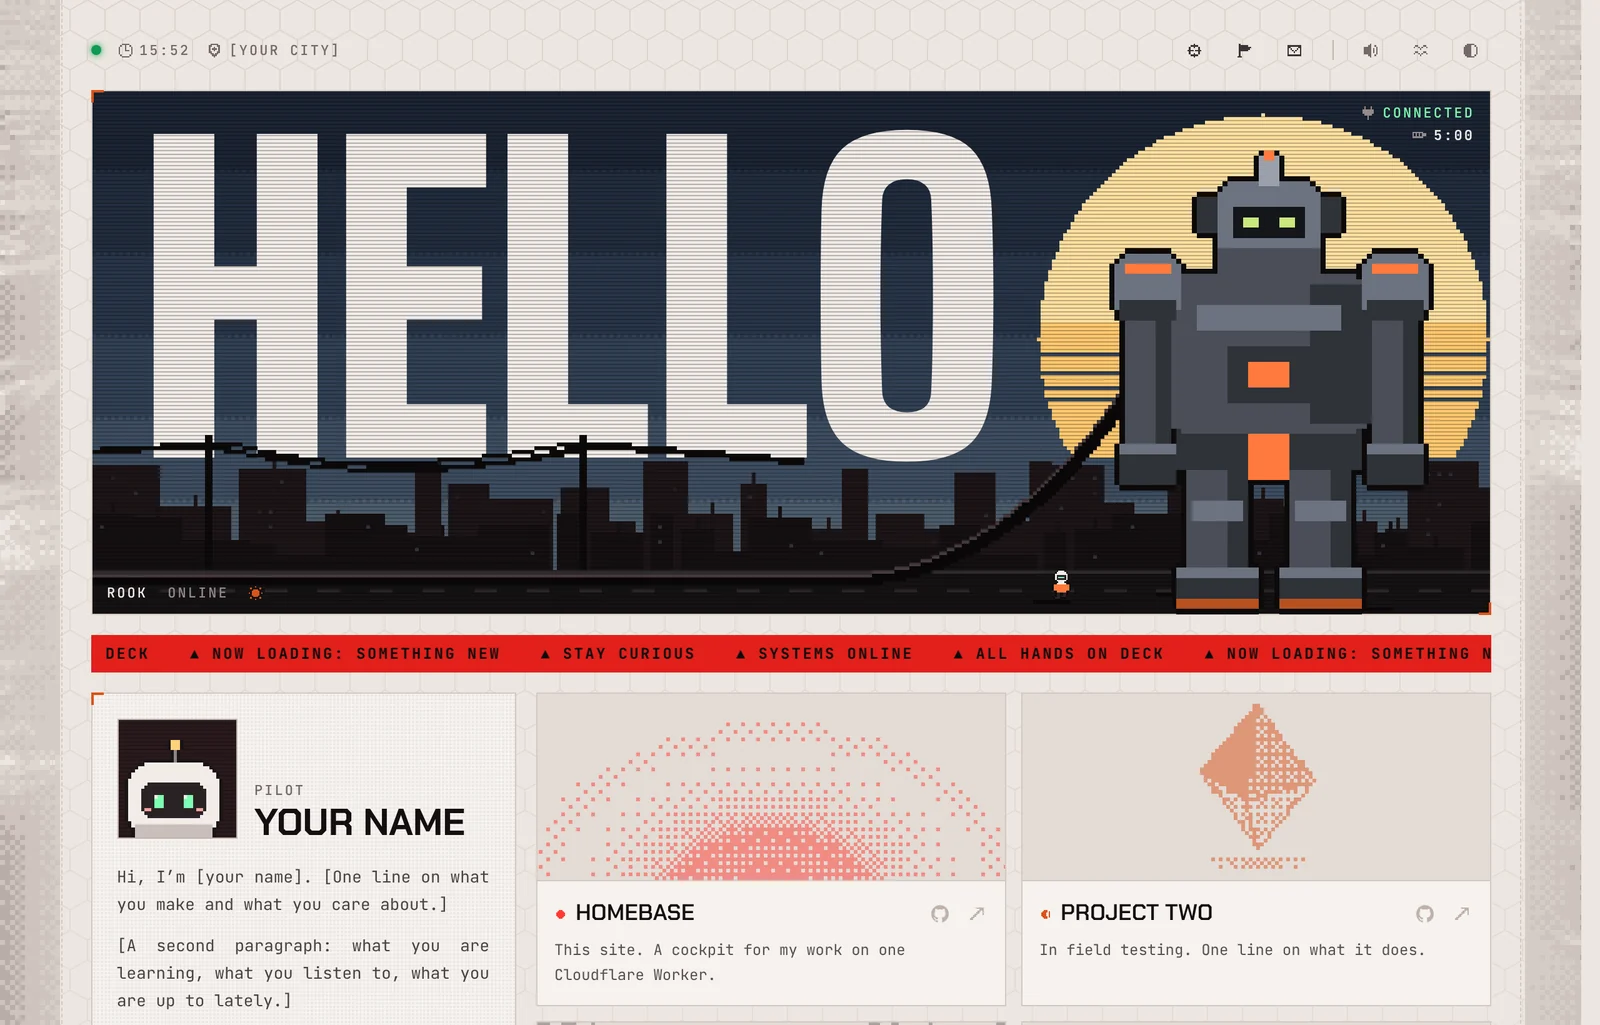
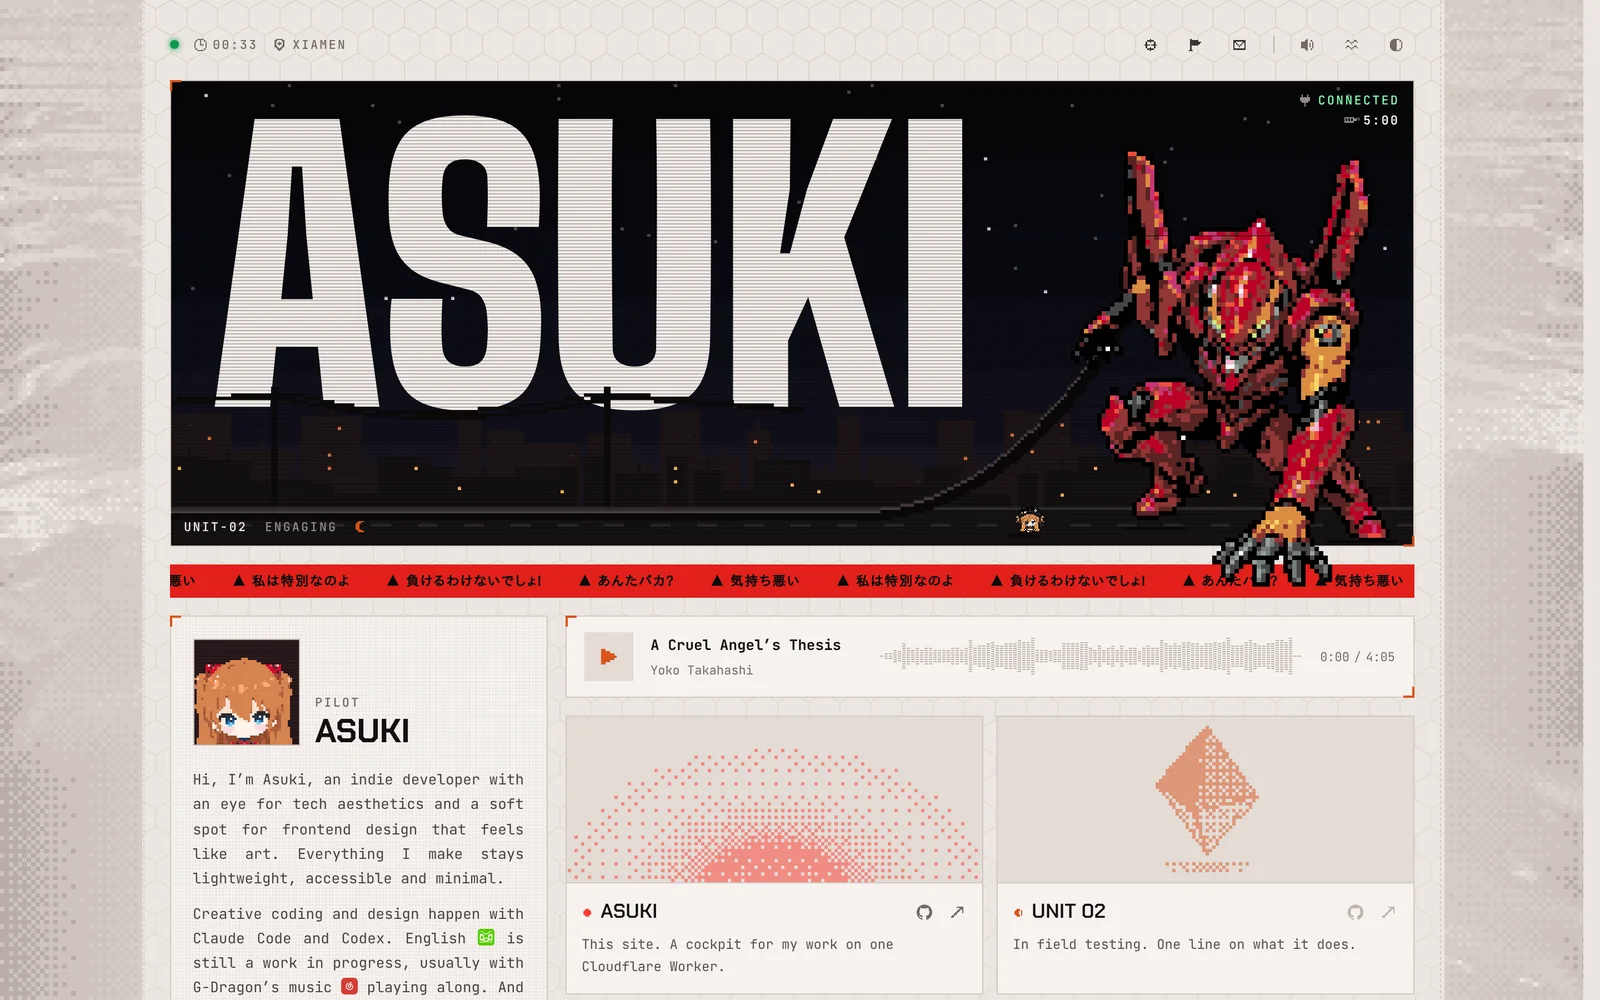
README: GIFs of every interaction, recorded on asuki.cc
Claude-Session: https://claude.ai/code/session_01XYmswk4ZmpHXxqo8sEZMZo

diff --git a/README.md b/README.md
@@ -18,14 +18,14 @@ English · [简体中文](README.zh-CN.md)
 
 <picture>
   <source media="(prefers-color-scheme: light)" srcset="docs/hero-light.webp">
-  <img src="docs/hero-dark.webp" alt="The template's homepage: a giant pixel mech in a city at night under the word HELLO, a red ticker, a profile panel and project cards" width="100%">
+  <img src="docs/hero-dark.webp" alt="asuki.cc: a giant red pixel mech crouching in a city at night under the word ASUKI, a red ticker, a profile panel, a music player and project cards" width="100%">
 </picture>
 
 </div>
 
 This is the framework behind [asuki.cc](https://asuki.cc), with every personal asset taken out. Everything that makes the site someone's lives in one folder, `persona/`. Swap that folder and the site becomes yours: your mech in the banner, your pet on the caution tape, your music and your words. The code stays the same.
 
-It ships with an original example persona: **Rook** the mech, **Bit** the pet, a tiny pilot and a harpoon. They are MIT-licensed, so you can keep them, remix them or replace them.
+The pictures and GIFs in this README are recorded on [asuki.cc](https://asuki.cc), the site this framework was built for: Unit-02 in the banner, a pixel Asuka on the caution tape and the Spear of Cassius. **Those characters are not part of the template.** The template ships with its own original example persona, **Rook** the mech, **Bit** the pet, a tiny pilot and a harpoon, which are MIT-licensed so you can keep, remix or replace them. Everything shown here works the same with any persona.
 
 ## Contents
 
@@ -66,6 +66,8 @@ It ships with an original example persona: **Rook** the mech, **Bit** the pet, a
 
 ## A tour
 
+Every GIF below is a real recording of the site. Nothing is staged or sped up.
+
 ### The sky follows yours
 
 Set your latitude and longitude, and the banner shows your real sky: the sun's height, the time of day and the current weather, from [Open-Meteo](https://open-meteo.com) (free, no key). Clouds, rain, snow, fog and lightning are drawn in the same pixel grid as the art.
@@ -78,33 +80,89 @@ You can preview any weather with `?weather=rain` (or `clear`, `partly`, `overcas
 
 ### Pull the plug
 
-The power cable is a simulated rope. Pull it and the mech switches to a five-minute battery while the pilot runs over and plugs it back in. Pull it three times in a row and the pilot sulks, and the battery may run dry.
+The power cable is a simulated rope. Click it and it comes loose: the mech drops to its five-minute internal battery, the HUD says so, and the pilot runs over and heaves the plug back in. Pull it three times in a row and the pilot sulks, and the battery may run dry.
 
-<img src="docs/cable.gif" alt="The cable is pulled out of the mech; the pilot walks over and plugs it back in" width="100%">
+<img src="docs/cable.gif" alt="The cable is pulled out of the mech, the battery starts counting down, and the pilot walks over and plugs it back in" width="100%">
 
 ### Raise a shield
 
-Click anywhere in the sky and a shield flares up where you clicked, with its own sound. The pilot looks up.
+Click anywhere in the sky and a shield flares up where you clicked, with its own sound. The pilot stops and looks up.
 
-<img src="docs/shield.gif" alt="Clicking the sky raises pixel shields" width="100%">
+<img src="docs/shield.gif" alt="Clicking the sky raises hexagonal pixel shields" width="100%">
+
+### Light its eyes
+
+Hover over the mech and its eyes glow. Click it and they flare.
+
+<img src="docs/eyes.gif" alt="The cursor moves over the mech and its eyes light up, then flare on each click" width="100%">
+
+### Hold it for the Easter egg
+
+Hold the mech for two seconds and it strains toward you, then opens whatever Easter egg the persona gives it. On asuki.cc that is a 3D scene with its own music; in your persona it can be anything, or nothing.
+
+<div align="center">
+<img src="docs/egg.gif" alt="The mech is held down, the page gives way and an Easter egg opens over it" width="640">
+</div>
 
 ### Pet the pet
 
-Stroke the pet back and forth to pet it. It says one of its lines, and gets cross if you keep going. Pick up its prop and drop it on the pet (or focus the prop and press Enter), and the pet raises it, winds up and throws it. You can throw the prop yourself too: it flies like a javelin, keeps the spin your hand gave it and sticks in the tape tip first.
+Stroke the pet back and forth to pet it. It answers with one of its lines, then gets cross if you keep going, and finally turns its back and sulks.
 
 <div align="center">
-<img src="docs/pet.gif" alt="Bit, the example pet, being petted and then throwing a harpoon down the caution tape" width="640">
+<img src="docs/pet.gif" alt="Asuka on the caution tape is petted, gets angry, and turns away to sulk" width="640">
 </div>
 
-### Projects and milestones
+### Hand it the prop
 
-The project cards open a full page: a turning shelf of cases, each with a pixel machine generated from the project's name, its state, links and an optional video. Milestones get a timeline with one entry per moment that mattered.
+Pick up the prop and drop it on the pet (or focus it and press Enter): the pet raises it, winds up and throws it down the tape. You can throw it yourself too. It flies like a javelin, keeps the spin your hand gave it, and sticks in the tape tip first.
 
-<img src="docs/projects.webp" alt="The projects page: a shelf of cases with generated pixel machines" width="100%">
+<div align="center">
+<img src="docs/throw.gif" alt="The spear is dropped on Asuka, who throws it; then the spear is flung by hand and sticks in the tape" width="720">
+</div>
 
-<img src="docs/milestones.webp" alt="The milestones page: a timeline by year" width="100%">
+### Turn the avatar over
 
-### The whole page, in both themes
+Click the avatar and it turns over like a card on a spring, with a band of light across it. The back is any picture you like.
+
+<img src="docs/avatar.gif" alt="The avatar flips over to show a second picture and flips back" width="560">
+
+### Play the track
+
+One song, with a pixel waveform you can click or drag to seek. Leave it out with `track: null`.
+
+<img src="docs/player.gif" alt="The music player starts playing and the waveform is clicked to seek" width="100%">
+
+### Peek at the accounts
+
+Hover over a social icon and a card opens with the account. With a key or a feed it also shows the avatar, the counts and the newest post.
+
+<div align="center">
+<img src="docs/cards.gif" alt="Hovering over the social icons opens a card for each account" width="460">
+</div>
+
+### The project shelf
+
+The projects open on their own page: a turning shelf of cases, each with a pixel machine generated from the project's name. Use the arrow keys, the wheel or drag, and press Enter to take a case off the shelf and play its video.
+
+<div align="center">
+<img src="docs/projects.gif" alt="The project shelf opens from the nav, turns case by case, and a case is opened" width="640">
+</div>
+
+### Milestones
+
+One entry per moment that mattered, on a timeline by year.
+
+<div align="center">
+<img src="docs/milestones.gif" alt="The milestones page opens from the nav and scrolls through the timeline" width="640">
+</div>
+
+### Light and dark
+
+The theme switch sweeps across the page. Both themes are drawn on purpose, not inverted.
+
+<div align="center">
+<img src="docs/theme.gif" alt="The page switches from dark to light and back" width="640">
+</div>
 
 <table>
 <tr>
@@ -136,9 +194,9 @@ Open the repo in your agent and paste these prompts one at a time. Replace the p
 
 > Here is my character: &lt;attach images&gt;. Make a pixel-art pet from it, about 50 x 70 cells, in the same palette-row format as persona/example/sprites/pet.json, with every pose listed in PET_FRAMES. Then make a mech for the banner (about 70 x 100) and a tiny pilot (about 20 x 20). Keep each palette under 16 colours. Update the anchors (feet, socket, shadows, eyes, hands, head) to match the new art, and run npm run check.
 
-This is everything the example persona draws. Your agent draws the same set for your character:
+This is the full set of art a persona provides, shown here for asuki.cc (the example persona has the same set for Bit, Rook and the pilot). Your agent draws the same set for your character:
 
-<img src="docs/sprites.webp" alt="The example persona's sprites: Bit in all its poses, Rook the mech, the pilot's poses and the harpoon" width="100%">
+<img src="docs/sprites.webp" alt="asuki.cc's sprites: the pet in all its poses, the mech, the spear and the pilot's poses" width="100%">
 
 **3. Give it a voice and a colour**
 
@@ -364,4 +422,4 @@ Add this repo as a remote (`git remote add upstream https://github.com/K1nesss/a
 
 ## License
 
-The code is [MIT](LICENSE). The example persona (Bit, Rook, the pilot, the harpoon and the favicon) is original and under the same licence, so you can reuse or remix it. The pictures in `docs/` show the example persona and are under the same licence.
+The code is [MIT](LICENSE). The example persona (Bit, Rook, the pilot, the harpoon and the favicon) is original and under the same licence, so you can reuse or remix it. The pictures in `docs/` show asuki.cc. Its characters (Asuka, Unit-02 and the Spear of Cassius) are not covered by the MIT licence and are not part of the template; please don't reuse them.
